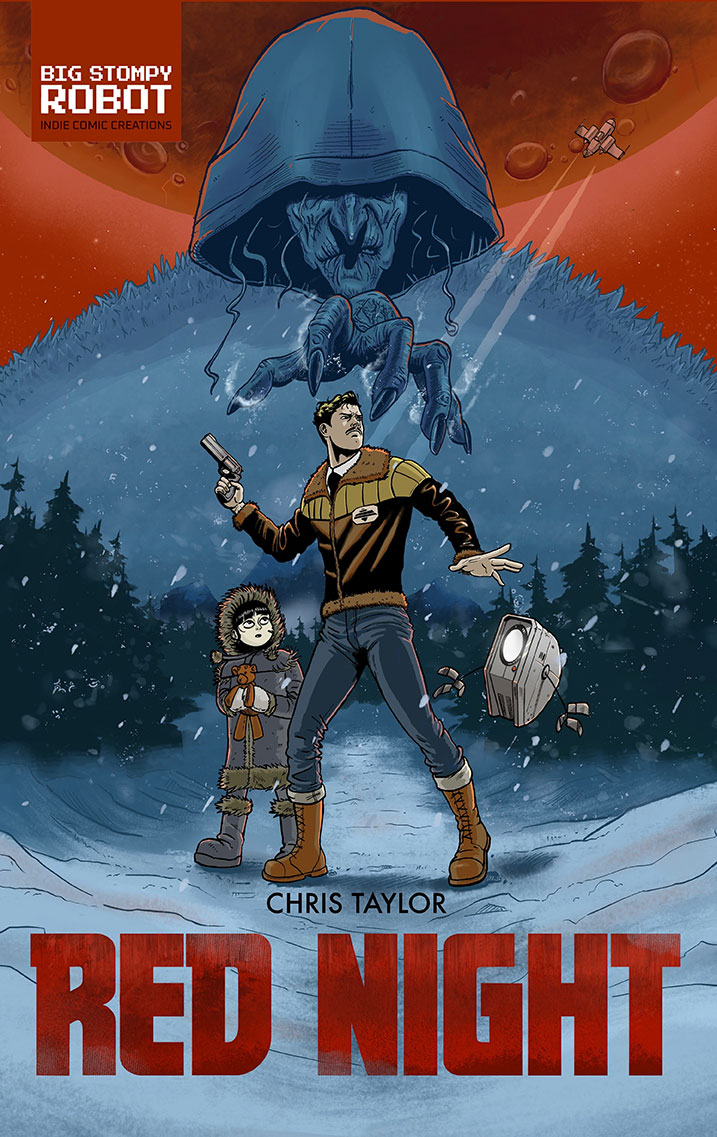
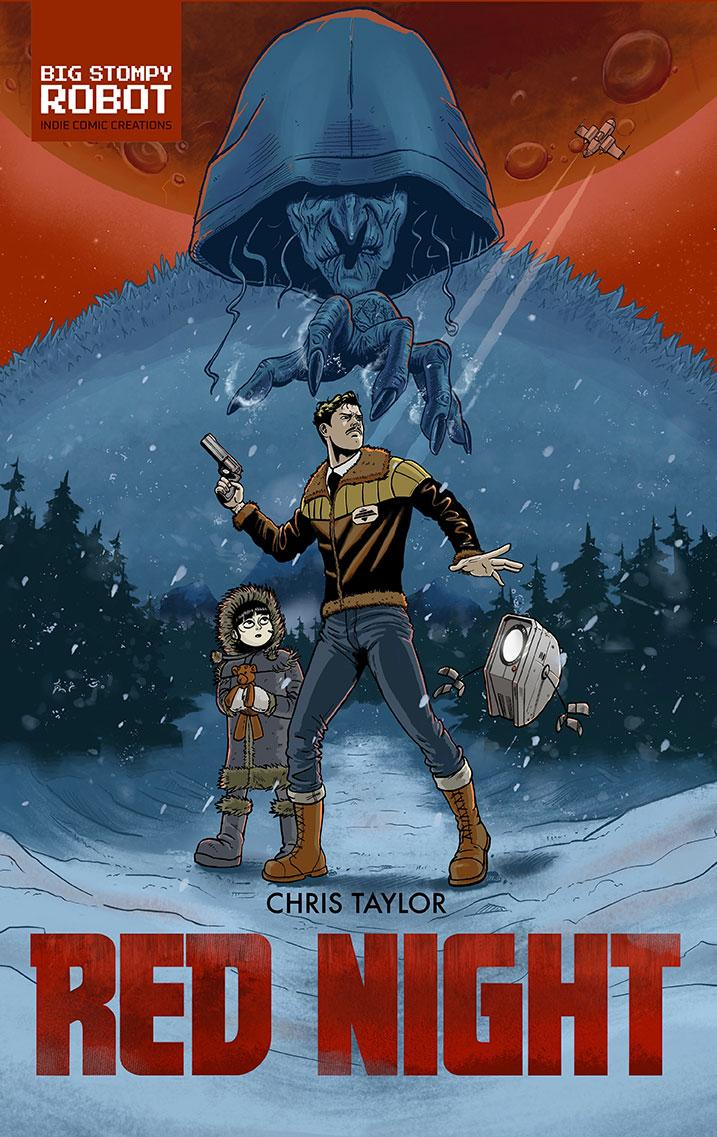
image optimisation

diff --git a/assets/css/main.scss b/assets/css/main.scss
@@ -208,14 +208,10 @@ img{max-width:100%; display:block;}
 CUSTOM STYLES
 ============================================================================= */
 /* =========================================================
-   Big Stompy Robot — main.css
+   Big Stompy Robot main.css
    Fonts (add to <head>):
    https://fonts.googleapis.com/css2?family=Archivo+Black&family=IBM+Plex+Mono:wght@500;600&family=IBM+Plex+Sans:wght@400;500;600;700&display=swap
    ========================================================= */
-
-
-
-
 /* ---------- grid system ---------- */
   .grid-container {
     display: block;
@@ -558,7 +554,7 @@ CUSTOM STYLES
 //comic cover effect
 
 /* ==========================================================================
-   COMIC COVER EFFECT — full block
+   COMIC COVER EFFECT  full block
    ========================================================================== */
 
 .book-container {
@@ -658,7 +654,7 @@ CUSTOM STYLES
 // }
 
 // /* inner wrapper: holds the cover image, clips the shine sweep,
-//    and handles the hover tilt — hinged at the spine (left edge) */
+//    and handles the hover tilt  hinged at the spine (left edge) */
 // .comic-cover__inner {
 //   position: relative;
 //   z-index: 1;
@@ -676,7 +672,7 @@ CUSTOM STYLES
 // }
 
 // /* the thin book effect: two solid offset copies behind the cover,
-//    just a couple of pixels each — reads as a thin stack, not a
+//    just a couple of pixels each - reads as a thin stack, not a
 //    fat wedge of pages */
 // .comic-cover__inner img {
 //   display: block;
@@ -733,7 +729,7 @@ CUSTOM STYLES
 //   transform: translateX(260%) rotate(18deg);
 // }
 
-// /* wrapper around the whole card link — deepens the drop shadow on hover
+// /* wrapper around the whole card link - deepens the drop shadow on hover
 //    so the cover reads as lifting slightly off the page */
 // .comic-cover-wrap {
 //   transition: filter .3s ease;

diff --git a/index.md b/index.md
@@ -2,7 +2,7 @@
 layout: default
 ---
 <section class="hero">
-  <div class="hero__bg" style="background-image:url('/assets/images/hero/suitable-for-salvage.png');"></div>
+  <div class="hero__bg" style="background-image:url('/assets/images/hero/suitable-for-salvage.jpg');"></div>
   <div class="hero__gradient"></div>
   <div class="grid-container clearfix">
     <div class="grid-row">
